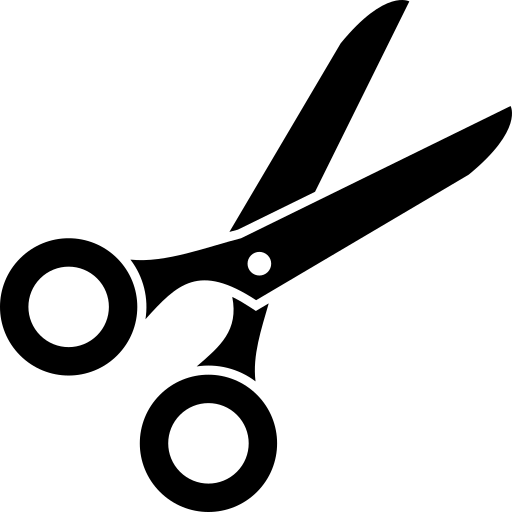
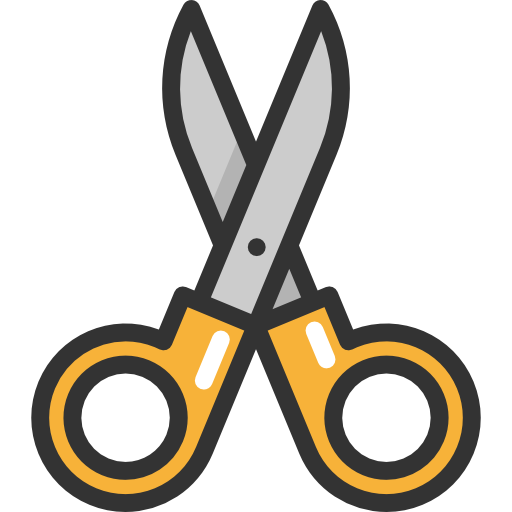
refactor: update tailor-orders app components, assets, and styles

diff --git a/src/App.jsx b/src/App.jsx
@@ -18,6 +18,11 @@ import ProfileDetail from "./components/profiles/ProfileDetail";
 import DeleteConfirm from "./components/shared/DeleteConfirm";
 import BinPanel      from "./components/shared/BinPanel";
 import Btn           from "./components/ui/Btn";
+import binIcon      from "./assets/images/bin.png";
+import magnifyIcon  from "./assets/images/magnify.png";
+import ordersIcon   from "./assets/images/orders.png";
+import personIcon   from "./assets/images/person.png";
+import scissorsIcon from "./assets/images/scissors.png";
 
 export default function App() {
   const [orders,       setOrders]       = useState(() => ls.load("qumash_orders",   SEED_ORDERS));
@@ -92,7 +97,7 @@ export default function App() {
       {/* Header */}
       <header style={{ background: C.header, padding: "0 30px", display: "flex", alignItems: "center", justifyContent: "space-between", height: 72, position: "sticky", top: 0, zIndex: 50, boxShadow: "0 2px 12px rgba(0,0,0,.25)" }}>
         <div style={{ display: "flex", alignItems: "center", gap: 12 }}>
-          <span style={{ fontSize: 28 }}>✂️</span>
+          <img src={scissorsIcon} alt="scissors" style={{ width: 28, height: 28, objectFit: "contain" }} />
           <div>
             <div style={{ color: C.headerText, fontWeight: 700, fontSize: 19, fontFamily: "Segoe UI,Tahoma,sans-serif", lineHeight: 1.2 }}>قوماش سەنتەر</div>
             <div style={{ color: C.muted, fontSize: 12 }}>سیستەمی داواکارییەکان</div>
@@ -100,7 +105,7 @@ export default function App() {
         </div>
         <div style={{ display: "flex", gap: 10, alignItems: "center" }}>
           <button onClick={() => setShowBin(true)} style={{ background: "none", color: C.headerText, border: `1.5px solid ${C.muted}`, borderRadius: 10, padding: "9px 18px", fontSize: 15, cursor: "pointer", fontFamily: "Segoe UI,Tahoma,sans-serif", display: "flex", alignItems: "center", gap: 6, position: "relative" }}>
-            🗑️ سەتل
+            <img src={binIcon} alt="bin" style={{ width: 16, height: 16, objectFit: "contain" }} /> سەتل
             {bin.length > 0 && (
               <span style={{ background: C.red, color: "#fff", borderRadius: "50%", width: 22, height: 22, fontSize: 11, fontWeight: 700, display: "flex", alignItems: "center", justifyContent: "center", position: "absolute", top: -8, left: -8 }}>
                 {bin.length}
@@ -116,15 +121,22 @@ export default function App() {
 
       {/* Tabs */}
       <div style={{ background: C.header, display: "flex", padding: "0 30px", borderBottom: `2.5px solid ${C.accent}` }}>
-        {[["orders", "📋 داواکارییەکان"], ["profiles", "👤 کڕیارەکان"]].map(([key, label]) => (
+        {[
+          { key: "orders", icon: ordersIcon, label: "داواکارییەکان" },
+          { key: "profiles", icon: personIcon, label: "کڕیارەکان" }
+        ].map(({ key, icon, label }) => (
           <button key={key} onClick={() => setTab(key)} style={{
             background: "none", border: "none", color: tab === key ? C.accent : C.muted,
             fontSize: 16, fontWeight: tab === key ? 700 : 400, padding: "14px 22px",
             cursor: "pointer", fontFamily: "Segoe UI,Tahoma,sans-serif",
             borderBottom: tab === key ? `4px solid ${C.accent}` : "4px solid transparent",
             marginBottom: -2.5,
+            display: "inline-flex",
+            alignItems: "center",
+            gap: 8,
           }}>
-            {label}
+            <img src={icon} alt={label} style={{ width: 18, height: 18, objectFit: "contain", filter: tab === key ? "none" : "grayscale(100%) opacity(0.7)" }} />
+            <span>{label}</span>
             {key === "profiles" && (
               <span style={{ marginRight: 8, background: C.muted, color: C.header, borderRadius: 20, padding: "2px 9px", fontSize: 13 }}>{profiles.length}</span>
             )}
@@ -136,7 +148,7 @@ export default function App() {
         <Dashboard orders={orders} activeFilter={filter} onFilter={setFilter} />
         <div style={{ background: "#ede3cf", borderBottom: `1.5px solid ${C.border}`, padding: "16px 30px", display: "flex", alignItems: "center", gap: 14 }}>
           <div style={{ flex: 1, position: "relative" }}>
-            <span style={{ position: "absolute", right: 14, top: "50%", transform: "translateY(-50%)", fontSize: 18, color: C.muted, pointerEvents: "none" }}>🔍</span>
+            <img src={magnifyIcon} alt="search" style={{ position: "absolute", right: 14, top: "50%", transform: "translateY(-50%)", width: 18, height: 18, objectFit: "contain", pointerEvents: "none" }} />
             <input value={search} onChange={e => setSearch(e.target.value)}
               placeholder="گەڕان بەپێی کۆد، ناو، یان ژمارەی مۆبایل..."
               style={{ width: "100%", padding: "12px 42px 12px 16px", fontSize: 16, border: `1.5px solid ${C.border}`, borderRadius: 10, background: C.card, color: C.text, fontFamily: "Segoe UI,Tahoma,sans-serif", outline: "none", boxSizing: "border-box" }}
@@ -149,7 +161,9 @@ export default function App() {
         <main style={{ padding: "30px 20px", maxWidth: 1600, margin: "0 auto" }}>
           {filtered.length === 0 ? (
             <div style={{ textAlign: "center", paddingTop: 70, color: C.muted }}>
-              <div style={{ fontSize: 46, marginBottom: 10 }}>📋</div>
+              <div style={{ marginBottom: 10 }}>
+                <img src={ordersIcon} alt="no orders" style={{ width: 48, height: 48, objectFit: "contain", filter: "grayscale(100%) opacity(0.6)" }} />
+              </div>
               <div style={{ fontSize: 17, fontFamily: "Segoe UI,Tahoma,sans-serif" }}>
                 {search || filter !== "all" ? "هیچ داواکارییەک نەدۆزرایەوە" : "هیچ داواکارییەک تۆمار نەکراوە"}
               </div>

diff --git a/src/components/orders/OrderCard.jsx b/src/components/orders/OrderCard.jsx
@@ -6,6 +6,9 @@ import { fmt } from "../../utils/format";
 import { remAmt, payStatus } from "../../utils/payment";
 import { normPhone } from "../../utils/phone";
 import Btn from "../ui/Btn";
+import phoneIcon from "../../assets/images/phone.png";
+import whatsappIcon from "../../assets/images/whatsapp.png";
+import noteIcon from "../../assets/images/note.png";
 
 export default function OrderCard({ order, onEdit, onDelete }) {
   const days = daysLeft(order.deliveryDate);
@@ -27,8 +30,12 @@ export default function OrderCard({ order, onEdit, onDelete }) {
 
       <div style={{ display: "flex", alignItems: "center", gap: 10, marginBottom: 10, justifyContent: "flex-end" }}>
         <span style={{ fontSize: 14, color: C.muted, direction: "ltr" }}>{order.phone}</span>
-        <a href={`tel:${order.phone}`} style={{ textDecoration: "none", fontSize: 16 }}>📞</a>
-        <a href={`https://wa.me/${normPhone(order.phone)}`} target="_blank" rel="noreferrer" style={{ textDecoration: "none", fontSize: 16 }}>💬</a>
+        <a href={`tel:${order.phone}`} style={{ display: "inline-flex", alignItems: "center", textDecoration: "none" }}>
+          <img src={phoneIcon} alt="phone" style={{ width: 18, height: 18, objectFit: "contain" }} />
+        </a>
+        <a href={`https://wa.me/${normPhone(order.phone)}`} target="_blank" rel="noreferrer" style={{ display: "inline-flex", alignItems: "center", textDecoration: "none" }}>
+          <img src={whatsappIcon} alt="whatsapp" style={{ width: 18, height: 18, objectFit: "contain" }} />
+        </a>
       </div>
 
       <div style={{ borderTop: `1px dashed ${C.border}`, margin: "6px 0" }} />
@@ -74,8 +81,9 @@ export default function OrderCard({ order, onEdit, onDelete }) {
       </div>
 
       {order.notes && (
-        <div style={{ fontSize: 13, color: "#6a4a2a", background: "#fdf3e3", borderRadius: 8, padding: "6px 10px", marginBottom: 10 }}>
-          📝 {order.notes}
+        <div style={{ fontSize: 13, color: "#6a4a2a", background: "#fdf3e3", borderRadius: 8, padding: "6px 10px", marginBottom: 10, display: "flex", alignItems: "center", gap: 6 }}>
+          <img src={noteIcon} alt="notes" style={{ width: 14, height: 14, objectFit: "contain" }} />
+          <span>{order.notes}</span>
         </div>
       )}
 

diff --git a/src/components/profiles/ProfilesTab.jsx b/src/components/profiles/ProfilesTab.jsx
@@ -6,6 +6,9 @@ import { remAmt } from "../../utils/payment";
 import { normPhone } from "../../utils/phone";
 import Avatar from "../ui/Avatar";
 import Btn from "../ui/Btn";
+import magnifyIcon from "../../assets/images/magnify.png";
+import personIcon from "../../assets/images/person.png";
+import noteIcon from "../../assets/images/note.png";
 
 export default function ProfilesTab({ profiles, orders, onNewProfile, onEditProfile, onDeleteProfile, onViewProfile }) {
   const [search, setSearch] = useState("");
@@ -25,7 +28,7 @@ export default function ProfilesTab({ profiles, orders, onNewProfile, onEditProf
       {/* Search + add */}
       <div style={{ display: "flex", gap: 14, marginBottom: 20, alignItems: "center" }}>
         <div style={{ flex: 1, position: "relative" }}>
-          <span style={{ position: "absolute", right: 14, top: "50%", transform: "translateY(-50%)", fontSize: 18, color: C.muted, pointerEvents: "none" }}>🔍</span>
+          <img src={magnifyIcon} alt="search" style={{ position: "absolute", right: 14, top: "50%", transform: "translateY(-50%)", width: 18, height: 18, objectFit: "contain", pointerEvents: "none" }} />
           <input value={search} onChange={e => setSearch(e.target.value)}
             placeholder="گەڕان بەپێی ناو یان ژمارە..."
             style={{ width: "100%", padding: "12px 42px 12px 16px", fontSize: 16, border: `1.5px solid ${C.border}`, borderRadius: 10, background: C.card, color: C.text, fontFamily: "Segoe UI,Tahoma,sans-serif", outline: "none", boxSizing: "border-box" }}
@@ -39,7 +42,9 @@ export default function ProfilesTab({ profiles, orders, onNewProfile, onEditProf
 
       {filtered.length === 0 ? (
         <div style={{ textAlign: "center", paddingTop: 60, color: C.muted }}>
-          <div style={{ fontSize: 46, marginBottom: 10 }}>👤</div>
+          <div style={{ marginBottom: 10 }}>
+            <img src={personIcon} alt="no profiles" style={{ width: 48, height: 48, objectFit: "contain", filter: "grayscale(100%) opacity(0.6)" }} />
+          </div>
           <div style={{ fontSize: 17, fontFamily: "Segoe UI,Tahoma,sans-serif" }}>هیچ پرۆفایلێک نەدۆزرایەوە</div>
         </div>
       ) : (
@@ -86,8 +91,9 @@ export default function ProfilesTab({ profiles, orders, onNewProfile, onEditProf
                 </div>
 
                 {p.notes && (
-                  <div style={{ marginTop: 10, fontSize: 13, color: "#8a6a4a", fontStyle: "italic", fontFamily: "Segoe UI,Tahoma,sans-serif", borderTop: `1px solid ${C.border}`, paddingTop: 8 }}>
-                    📝 {p.notes.slice(0, 60)}{p.notes.length > 60 ? "..." : ""}
+                  <div style={{ marginTop: 10, fontSize: 13, color: "#8a6a4a", fontStyle: "italic", fontFamily: "Segoe UI,Tahoma,sans-serif", borderTop: `1px solid ${C.border}`, paddingTop: 8, display: "flex", alignItems: "center", gap: 6 }}>
+                    <img src={noteIcon} alt="notes" style={{ width: 14, height: 14, objectFit: "contain" }} />
+                    <span>{p.notes.slice(0, 60)}{p.notes.length > 60 ? "..." : ""}</span>
                   </div>
                 )}
               </div>

diff --git a/src/components/orders/OrderModal.jsx b/src/components/orders/OrderModal.jsx
@@ -12,6 +12,8 @@ import FieldErr from "../ui/FieldErr";
 import Inp from "../ui/Inp";
 import Btn from "../ui/Btn";
 import CustomerHistory from "./CustomerHistory";
+import personIcon from "../../assets/images/person.png";
+import checkIcon from "../../assets/images/check.png";
 
 export default function OrderModal({ order, allOrders, profiles, onClose, onSave }) {
   const isEdit = !!order;
@@ -92,8 +94,9 @@ export default function OrderModal({ order, allOrders, profiles, onClose, onSave
 
         {profileMatch && (
           <div style={{ background: "#f0e8f8", border: "1px solid #c39bd3", borderRadius: 10, padding: "8px 12px", marginBottom: 12, display: "flex", justifyContent: "space-between", alignItems: "center" }}>
-            <div style={{ fontSize: 14, color: C.purple, fontFamily: "Segoe UI,Tahoma,sans-serif" }}>
-              👤 پرۆفایلی <strong>{profileMatch.name}</strong> دۆزرایەوە
+            <div style={{ fontSize: 14, color: C.purple, fontFamily: "Segoe UI,Tahoma,sans-serif", display: "flex", alignItems: "center", gap: 6 }}>
+              <img src={personIcon} alt="profile" style={{ width: 16, height: 16, objectFit: "contain" }} />
+              <span>پرۆفایلی <strong>{profileMatch.name}</strong> دۆزرایەوە</span>
             </div>
             <Btn onClick={() => setForm(f => ({ ...f, name: profileMatch.name, measurements: { ...profileMatch.measurements } }))} color={C.purple} small>بارکردنی قەبارەکان</Btn>
           </div>
@@ -227,7 +230,10 @@ export default function OrderModal({ order, allOrders, profiles, onClose, onSave
         </div>
 
         <div style={{ display: "flex", gap: 10 }}>
-          <Btn onClick={handleSave} color={C.header} solid>پاشەکەوتکردن ✓</Btn>
+          <Btn onClick={handleSave} color={C.header} solid style={{ display: "inline-flex", alignItems: "center", gap: 6 }}>
+            <span>پاشەکەوتکردن</span>
+            <img src={checkIcon} alt="check" style={{ width: 14, height: 14, objectFit: "contain" }} />
+          </Btn>
           <Btn onClick={onClose} color={C.muted}>هەڵوەشاندن</Btn>
         </div>
       </div>

diff --git a/src/components/shared/BinPanel.jsx b/src/components/shared/BinPanel.jsx
@@ -2,6 +2,8 @@ import { useState } from "react";
 import { C } from "../../constants/theme";
 import { fmt } from "../../utils/format";
 import Btn from "../ui/Btn";
+import binIcon from "../../assets/images/bin.png";
+import checkIcon from "../../assets/images/check.png";
 
 export default function BinPanel({ bin, onRestore, onPermanentDelete, onClearAll, onClose }) {
   const [confirmClear, setConfirmClear] = useState(false);
@@ -16,7 +18,7 @@ export default function BinPanel({ bin, onRestore, onPermanentDelete, onClearAll
         {/* Header */}
         <div style={{ display: "flex", justifyContent: "space-between", alignItems: "center", padding: "16px 20px 12px", borderBottom: `1px solid ${C.border}` }}>
           <div style={{ display: "flex", alignItems: "center", gap: 8 }}>
-            <span style={{ fontSize: 20 }}>🗑️</span>
+            <img src={binIcon} alt="bin" style={{ width: 20, height: 20, objectFit: "contain" }} />
             <div>
               <div style={{ fontSize: 20, fontWeight: 700, color: C.text, fontFamily: "Segoe UI,Tahoma,sans-serif" }}>سەتلی داواکارییە سڕاوەکان</div>
               <div style={{ fontSize: 13, color: C.muted, marginTop: 2 }}>{bin.length} داواکاری</div>
@@ -43,7 +45,9 @@ export default function BinPanel({ bin, onRestore, onPermanentDelete, onClearAll
         <div style={{ overflowY: "auto", flex: 1, padding: "10px 16px 16px" }}>
           {bin.length === 0 ? (
             <div style={{ textAlign: "center", paddingTop: 50, color: C.muted }}>
-              <div style={{ fontSize: 40, marginBottom: 10 }}>✅</div>
+              <div style={{ marginBottom: 10 }}>
+                <img src={checkIcon} alt="empty bin" style={{ width: 40, height: 40, objectFit: "contain" }} />
+              </div>
               <div style={{ fontSize: 15, fontFamily: "Segoe UI,Tahoma,sans-serif" }}>سەتل بەتاڵە</div>
             </div>
           ) : bin.map(o => (

diff --git a/src/components/orders/CustomerHistory.jsx b/src/components/orders/CustomerHistory.jsx
@@ -2,6 +2,7 @@ import { useMemo } from "react";
 import { C } from "../../constants/theme";
 import { normPhone } from "../../utils/phone";
 import { fmt } from "../../utils/format";
+import ordersIcon from "../../assets/images/orders.png";
 
 export default function CustomerHistory({ phone, orders, currentId }) {
   const prev = useMemo(() =>
@@ -13,8 +14,9 @@ export default function CustomerHistory({ phone, orders, currentId }) {
 
   return (
     <div style={{ background: "#f0e8d8", border: `1px solid ${C.border}`, borderRadius: 10, padding: "12px 16px", marginBottom: 16 }}>
-      <div style={{ fontSize: 14, fontWeight: 700, color: C.text, marginBottom: 8, fontFamily: "Segoe UI,Tahoma,sans-serif" }}>
-        📋 {prev.length} داواکاری پێشوو بۆ ئەم کڕیارە
+      <div style={{ fontSize: 14, fontWeight: 700, color: C.text, marginBottom: 8, fontFamily: "Segoe UI,Tahoma,sans-serif", display: "flex", alignItems: "center", gap: 6 }}>
+        <img src={ordersIcon} alt="orders" style={{ width: 16, height: 16, objectFit: "contain" }} />
+        <span>{prev.length} داواکاری پێشوو بۆ ئەم کڕیارە</span>
       </div>
       {prev.slice(0, 3).map(o => (
         <div key={o.id} style={{ display: "flex", justifyContent: "space-between", fontSize: 14, color: "#6a4a2a", fontFamily: "Segoe UI,Tahoma,sans-serif", padding: "4px 0" }}>

diff --git a/src/components/profiles/ProfileDetail.jsx b/src/components/profiles/ProfileDetail.jsx
@@ -7,6 +7,7 @@ import { remAmt, payStatus } from "../../utils/payment";
 import { normPhone } from "../../utils/phone";
 import Avatar from "../ui/Avatar";
 import Btn from "../ui/Btn";
+import noteIcon from "../../assets/images/note.png";
 
 export default function ProfileDetail({ profile, orders, onClose, onEdit, onDelete, onNewOrder }) {
   const profileOrders = useMemo(() =>
@@ -77,8 +78,9 @@ export default function ProfileDetail({ profile, orders, onClose, onEdit, onDele
           </div>
 
           {profile.notes && (
-            <div style={{ background: "#fdf3e3", border: "1px solid #e8d5b0", borderRadius: 8, padding: "12px 16px", marginBottom: 20, fontSize: 15, color: "#6a4a2a", fontFamily: "Segoe UI,Tahoma,sans-serif" }}>
-              📝 {profile.notes}
+            <div style={{ background: "#fdf3e3", border: "1px solid #e8d5b0", borderRadius: 8, padding: "12px 16px", marginBottom: 20, fontSize: 15, color: "#6a4a2a", fontFamily: "Segoe UI,Tahoma,sans-serif", display: "flex", alignItems: "center", gap: 8 }}>
+              <img src={noteIcon} alt="notes" style={{ width: 16, height: 16, objectFit: "contain" }} />
+              <span>{profile.notes}</span>
             </div>
           )}
 

diff --git a/src/components/profiles/ProfileForm.jsx b/src/components/profiles/ProfileForm.jsx
@@ -8,6 +8,7 @@ import Lbl from "../ui/Lbl";
 import FieldErr from "../ui/FieldErr";
 import Inp from "../ui/Inp";
 import Btn from "../ui/Btn";
+import checkIcon from "../../assets/images/check.png";
 
 export default function ProfileForm({ profile, onClose, onSave }) {
   const isEdit = !!profile;
@@ -97,7 +98,10 @@ export default function ProfileForm({ profile, onClose, onSave }) {
         </div>
 
         <div style={{ display: "flex", gap: 10 }}>
-          <Btn onClick={handleSave} color={C.header} solid>پاشەکەوتکردن ✓</Btn>
+          <Btn onClick={handleSave} color={C.header} solid style={{ display: "inline-flex", alignItems: "center", gap: 6 }}>
+            <span>پاشەکەوتکردن</span>
+            <img src={checkIcon} alt="check" style={{ width: 14, height: 14, objectFit: "contain" }} />
+          </Btn>
           <Btn onClick={onClose} color={C.muted}>هەڵوەشاندن</Btn>
         </div>
       </div>

diff --git a/src/components/shared/DeleteConfirm.jsx b/src/components/shared/DeleteConfirm.jsx
@@ -1,11 +1,14 @@
 import { C } from "../../constants/theme";
 import Btn from "../ui/Btn";
+import binIcon from "../../assets/images/bin.png";
 
 export default function DeleteConfirm({ name, onConfirm, onCancel }) {
   return (
     <div style={{ position: "fixed", inset: 0, background: "rgba(30,18,8,.6)", display: "flex", alignItems: "center", justifyContent: "center", zIndex: 400, padding: 16 }}>
       <div style={{ background: C.card, borderRadius: 14, padding: "34px 30px 26px", maxWidth: 420, width: "100%", direction: "rtl", border: `2px solid ${C.border}`, boxShadow: "0 16px 48px rgba(0,0,0,.28)", textAlign: "center" }}>
-        <div style={{ fontSize: 46, marginBottom: 12 }}>🗑️</div>
+        <div style={{ marginBottom: 12 }}>
+          <img src={binIcon} alt="delete" style={{ width: 48, height: 48, objectFit: "contain" }} />
+        </div>
         <div style={{ fontSize: 21, fontWeight: 700, color: C.text, marginBottom: 10, fontFamily: "Segoe UI,Tahoma,sans-serif" }}>دڵنیای لە سڕینەوە؟</div>
         <div style={{ fontSize: 15, color: "#8a6a4a", marginBottom: 26, fontFamily: "Segoe UI,Tahoma,sans-serif" }}>داواکاری «{name}» دەسڕێتەوە.</div>
         <div style={{ display: "flex", gap: 10, justifyContent: "center" }}>